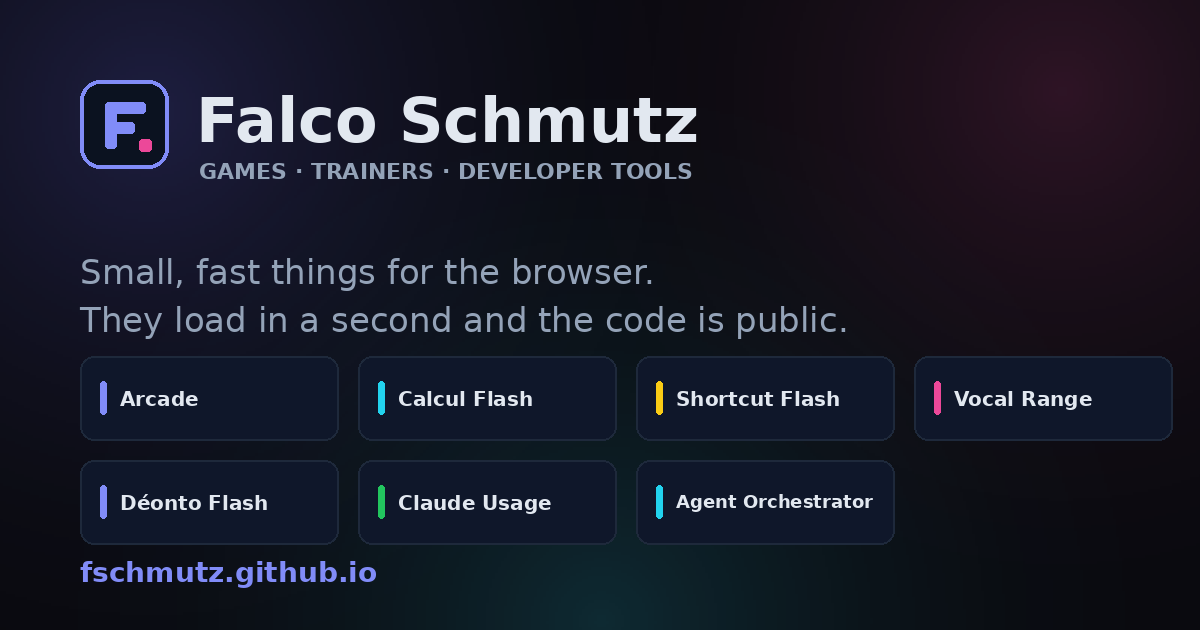
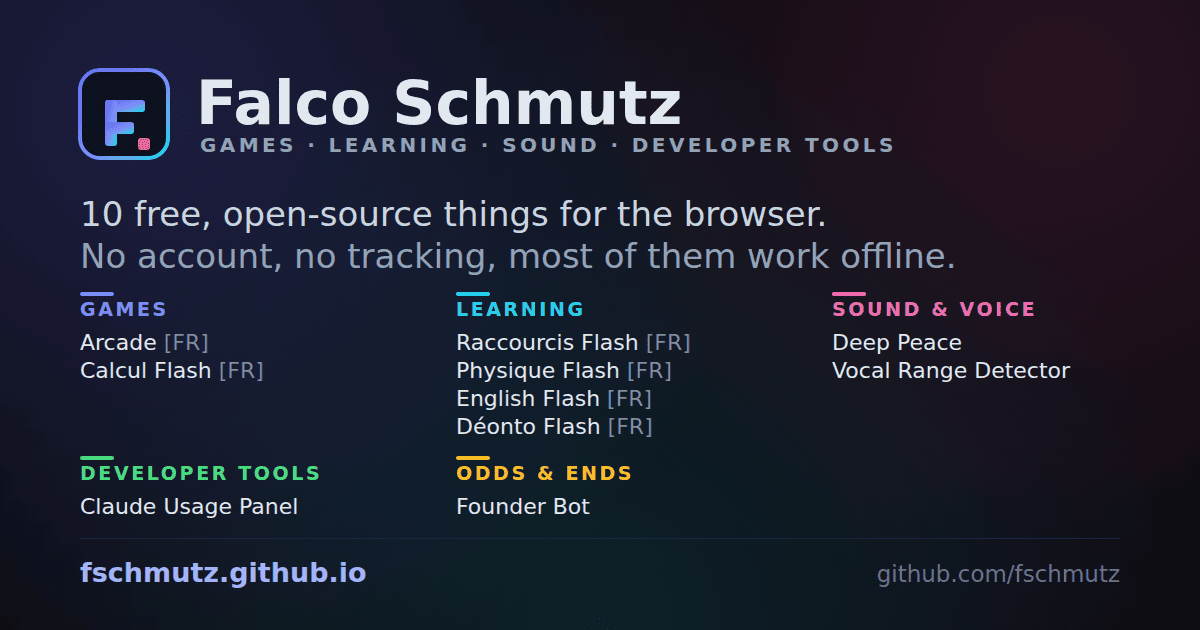
Draw the social card from projects.json instead of by hand
The card listed seven projects in a Python literal that nobody would remember
to edit. It is now generated: tools/make-og.py writes assets/og.svg from the
same groups the page uses, then rasterises it once to assets/og.png, which is
what the meta tags point at because no scraper renders SVG.

Both files are committed, so working on the site needs none of the tools the
raster step wants. The second row of groups waits for the tallest group in the
first, and the script refuses to draw rather than overlap itself when a group
outgrows the space.

diff --git a/tools/make-og.py b/tools/make-og.py
@@ -1,116 +1,207 @@
 #!/usr/bin/env python3
-"""Redraw assets/og.png, the 1200x630 social card.
+"""Redraw the 1200x630 social card from projects.json.
 
-Build-time only: the site itself ships the finished PNG and needs no tooling.
+The card is drawn as SVG — assets/og.svg, committed and diffable — and then
+rasterised once to assets/og.png, which is what the meta tags point at because
+no scraper renders SVG.
 
-    pip install Pillow && python3 tools/make-og.py
+    python3 tools/make-og.py             # redraw both
+    python3 tools/make-og.py --svg-only  # skip the raster step
+
+Rasterising needs one of rsvg-convert, inkscape or Chrome/Chromium on PATH.
+Only the person regenerating the card needs it: both files are committed, and
+the site itself has no build step.
 """
 
 from __future__ import annotations
 
-import math
+import argparse
+import json
+import shutil
+import subprocess
+import tempfile
+from html import escape
 from pathlib import Path
 
-from PIL import Image, ImageDraw, ImageFont
+ROOT = Path(__file__).resolve().parent.parent
+DATA = ROOT / "projects.json"
+SVG = ROOT / "assets" / "og.svg"
+PNG = ROOT / "assets" / "og.png"
 
 W, H = 1200, 630
-BG = (10, 10, 15)
-CARD = (15, 23, 42)
-BORDER = (30, 41, 59)
-INK = (226, 232, 240)
-MUTED = (148, 163, 184)
-INDIGO = (99, 102, 241)
-INDIGO_LIGHT = (129, 140, 248)
-CYAN = (34, 211, 238)
-PINK = (236, 72, 153)
-
-ROOT = Path(__file__).resolve().parent.parent
-FONTS = Path("/usr/share/fonts/truetype")
+COLUMNS = 3
+ROWS = 2
+COLUMN_X = (80, 456, 832)
+TOP_Y = 316          # baseline of the first group heading
+FIRST_ITEM = 34      # heading baseline to first item baseline
+ITEM_STEP = 28
+ROW_GAP = 46
+FLOOR = H - 92       # the divider; nothing may be drawn below it
+ACCENTS = ("#818cf8", "#22d3ee", "#f472b6", "#4ade80", "#fbbf24", "#fb923c")
 
 
-def font(name: str, size: int) -> ImageFont.FreeTypeFont:
-    for candidate in FONTS.rglob(name):
-        return ImageFont.truetype(str(candidate), size)
-    return ImageFont.load_default(size)
+def row_tops(groups: list[dict]) -> list[int]:
+    """Where each row of groups starts. The second row waits for the tallest
+    group in the first, so a group can grow without colliding with one below."""
+    tops = [TOP_Y]
+    for row in range(1, ROWS):
+        above = groups[(row - 1) * COLUMNS : row * COLUMNS]
+        tallest = max((len(group["items"]) for group in above), default=0)
+        tops.append(tops[-1] + FIRST_ITEM + max(tallest - 1, 0) * ITEM_STEP + ROW_GAP)
+    return tops
 
 
-def glow(image: Image.Image, cx: int, cy: int, radius: int, rgb: tuple[int, int, int], peak: float) -> None:
-    """Radial gradient, same three accent glows as the page background."""
-    layer = Image.new("RGBA", image.size, (0, 0, 0, 0))
-    pixels = layer.load()
-    step = 3
-    for y in range(max(0, cy - radius), min(image.height, cy + radius), step):
-        for x in range(max(0, cx - radius), min(image.width, cx + radius), step):
-            d = math.hypot(x - cx, y - cy)
-            if d >= radius:
-                continue
-            alpha = int(255 * peak * (1 - d / radius) ** 2)
-            if alpha <= 0:
-                continue
-            for dy in range(step):
-                for dx in range(step):
-                    if y + dy < image.height and x + dx < image.width:
-                        pixels[x + dx, y + dy] = (*rgb, alpha)
-    image.alpha_composite(layer)
-
-
-def main() -> None:
-    image = Image.new("RGBA", (W, H), (*BG, 255))
-    glow(image, 150, 110, 620, INDIGO, 0.22)
-    glow(image, 1060, 90, 560, PINK, 0.16)
-    glow(image, 600, 620, 620, CYAN, 0.16)
-
-    draw = ImageDraw.Draw(image)
-
-    # Monogram tile, same shapes as assets/favicon.svg.
-    draw.rounded_rectangle((80, 80, 168, 168), radius=20, fill=(11, 18, 32), outline=INDIGO_LIGHT, width=4)
-    draw.rounded_rectangle((105, 102, 145, 113), radius=3, fill=INDIGO_LIGHT)
-    draw.rounded_rectangle((105, 102, 116, 148), radius=3, fill=INDIGO_LIGHT)
-    draw.rounded_rectangle((105, 122, 134, 133), radius=3, fill=INDIGO_LIGHT)
-    draw.rounded_rectangle((139, 139, 151, 151), radius=3, fill=PINK)
-
-    draw.text((196, 84), "Falco Schmutz", font=font("DejaVuSans-Bold.ttf", 62), fill=INK)
-    draw.text((199, 158), "GAMES · TRAINERS · DEVELOPER TOOLS", font=font("DejaVuSans-Bold.ttf", 22), fill=MUTED)
-
-    draw.text(
-        (80, 252),
-        "Small, fast things for the browser.\nThey load in a second and the code is public.",
-        font=font("DejaVuSans.ttf", 34),
-        fill=MUTED,
-        spacing=16,
+def draw(data: dict) -> str:
+    groups = data["groups"]
+    if len(groups) > COLUMNS * ROWS:
+        raise SystemExit(f"the card has room for {COLUMNS * ROWS} groups, projects.json has {len(groups)}")
+    tops = row_tops(groups)
+    lowest = max(
+        tops[index // COLUMNS] + FIRST_ITEM + (len(group["items"]) - 1) * ITEM_STEP
+        for index, group in enumerate(groups)
     )
-
-    # Seven cards, one per curated project, laid out 4 + 3 like the grid.
-    labels = [
-        ("Arcade", INDIGO_LIGHT),
-        ("Calcul Flash", CYAN),
-        ("Shortcut Flash", (250, 204, 21)),
-        ("Vocal Range", PINK),
-        ("Déonto Flash", INDIGO_LIGHT),
-        ("Claude Usage", (34, 197, 94)),
-        ("Agent Orchestrator", CYAN),
-    ]
-    card_w, card_h, gap = 258, 84, 20
-    text_room = card_w - 56
-    for index, (label, accent) in enumerate(labels):
-        row, column = divmod(index, 4)
-        x = 80 + column * (card_w + gap)
-        y = 356 + row * (card_h + gap)
-        draw.rounded_rectangle((x, y, x + card_w, y + card_h), radius=14, fill=CARD, outline=BORDER, width=2)
-        draw.rounded_rectangle((x + 20, y + 25, x + 26, y + 58), radius=3, fill=accent)
-        label_font = next(
-            f for size in (20, 19, 18, 17, 16, 15)
-            for f in [font("DejaVuSans-Bold.ttf", size)]
-            if draw.textlength(label, font=f) <= text_room or size == 15
+    if lowest > FLOOR - 10:
+        raise SystemExit(
+            f"the groups reach y={lowest} but the card's floor is {FLOOR}. "
+            "Move a project to a shorter group, or give the first row fewer items."
         )
-        draw.text((x + 40, y + 31), label, font=label_font, fill=INK)
 
-    draw.text((80, H - 74), "fschmutz.github.io", font=font("DejaVuSans-Bold.ttf", 28), fill=INDIGO_LIGHT)
+    count = sum(len(group["items"]) for group in groups)
+    parts: list[str] = [
+        f'<svg xmlns="http://www.w3.org/2000/svg" width="{W}" height="{H}" viewBox="0 0 {W} {H}"'
+        ' font-family="DejaVu Sans, Verdana, Helvetica, Arial, sans-serif">',
+        "  <defs>",
+        '    <linearGradient id="mark" x1="0" y1="0" x2="1" y2="1">',
+        '      <stop offset="0" stop-color="#6366f1"/><stop offset="0.55" stop-color="#818cf8"/>'
+        '<stop offset="1" stop-color="#22d3ee"/>',
+        "    </linearGradient>",
+        '    <radialGradient id="glow-indigo"><stop offset="0" stop-color="#6366f1" stop-opacity="0.22"/>'
+        '<stop offset="1" stop-color="#6366f1" stop-opacity="0"/></radialGradient>',
+        '    <radialGradient id="glow-pink"><stop offset="0" stop-color="#ec4899" stop-opacity="0.14"/>'
+        '<stop offset="1" stop-color="#ec4899" stop-opacity="0"/></radialGradient>',
+        '    <radialGradient id="glow-cyan"><stop offset="0" stop-color="#22d3ee" stop-opacity="0.12"/>'
+        '<stop offset="1" stop-color="#22d3ee" stop-opacity="0"/></radialGradient>',
+        "  </defs>",
+        f'  <rect width="{W}" height="{H}" fill="#0a0a0f"/>',
+        '  <circle cx="150" cy="110" r="620" fill="url(#glow-indigo)"/>',
+        '  <circle cx="1060" cy="90" r="560" fill="url(#glow-pink)"/>',
+        f'  <circle cx="600" cy="{H - 10}" r="620" fill="url(#glow-cyan)"/>',
+        # Monogram, the same shapes as assets/favicon.svg.
+        '  <rect x="80" y="70" width="88" height="88" rx="20" fill="#0b1220" stroke="url(#mark)" stroke-width="4"/>',
+        '  <g fill="url(#mark)">',
+        '    <rect x="105" y="100" width="40" height="12" rx="3"/>',
+        '    <rect x="105" y="100" width="12" height="46" rx="3"/>',
+        '    <rect x="105" y="122" width="29" height="12" rx="3"/>',
+        "  </g>",
+        '  <rect x="138" y="138" width="12" height="12" rx="3" fill="#ec4899"/>',
+        '  <text x="196" y="124" font-size="60" font-weight="700" fill="#e2e8f0">Falco Schmutz</text>',
+        '  <text x="200" y="152" font-size="20" font-weight="700" letter-spacing="3.4" fill="#94a3b8">'
+        "GAMES · LEARNING · SOUND · DEVELOPER TOOLS</text>",
+        f'  <text x="80" y="226" font-size="34" fill="#cbd5e1">{count} free, open-source things for the browser.</text>',
+        '  <text x="80" y="268" font-size="34" fill="#94a3b8">No account, no tracking, most of them work offline.</text>',
+    ]
 
-    out = ROOT / "assets" / "og.png"
-    image.convert("RGB").save(out, optimize=True)
-    print(f"wrote {out} ({out.stat().st_size} bytes)")
+    for index, group in enumerate(groups):
+        x = COLUMN_X[index % COLUMNS]
+        y = tops[index // COLUMNS]
+        accent = ACCENTS[index % len(ACCENTS)]
+        parts.append(f'  <rect x="{x}" y="{y - 24}" width="34" height="4" rx="2" fill="{accent}"/>')
+        parts.append(
+            f'  <text x="{x}" y="{y}" font-size="19" font-weight="700" letter-spacing="2.6" '
+            f'fill="{accent}">{escape(group["name"].upper())}</text>'
+        )
+        for row, item in enumerate(group["items"]):
+            label = escape(item["name"])
+            if item.get("lang"):
+                label += f' <tspan fill="#7c8aa0">[{item["lang"].upper()}]</tspan>'
+            parts.append(
+                f'  <text x="{x}" y="{y + FIRST_ITEM + row * ITEM_STEP}" font-size="22" '
+                f'fill="#e2e8f0">{label}</text>'
+            )
+
+    parts += [
+        f'  <rect x="80" y="{FLOOR}" width="{W - 160}" height="1" fill="#1e293b"/>',
+        f'  <text x="80" y="{H - 48}" font-size="27" font-weight="700" fill="#a5b4fc">fschmutz.github.io</text>',
+        f'  <text x="{W - 80}" y="{H - 48}" font-size="23" text-anchor="end" fill="#64748b">'
+        "github.com/fschmutz</text>",
+        "</svg>",
+    ]
+    return "\n".join(parts) + "\n"
+
+
+def rasterise(svg: Path, png: Path) -> None:
+    if (tool := shutil.which("rsvg-convert")):
+        subprocess.run([tool, "-w", str(W), "-h", str(H), "-o", str(png), str(svg)], check=True)
+        return
+    if (tool := shutil.which("inkscape")):
+        subprocess.run([tool, str(svg), "-w", str(W), "-h", str(H), "-o", str(png)], check=True)
+        return
+
+    chrome = next((shutil.which(name) for name in ("google-chrome", "chromium", "chromium-browser") if shutil.which(name)), None)
+    if not chrome:
+        raise SystemExit("install rsvg-convert, inkscape or Chrome to rasterise, or pass --svg-only")
+
+    # Chrome screenshots a document, so wrap the SVG in a page with no margin.
+    # ignore_cleanup_errors: a headless Chrome that outstayed its welcome is
+    # still writing into its profile while the directory goes away.
+    with tempfile.TemporaryDirectory(ignore_cleanup_errors=True) as tmp:
+        page = Path(tmp) / "card.html"
+        page.write_text(
+            "<!doctype html><meta charset=utf-8>"
+            "<style>html,body{margin:0;padding:0;background:#0a0a0f}svg{display:block}</style>"
+            + svg.read_text(encoding="utf-8"),
+            encoding="utf-8",
+        )
+        command = [
+            chrome, "--headless", "--no-sandbox", "--disable-gpu", "--disable-dev-shm-usage",
+            "--hide-scrollbars", "--force-device-scale-factor=1", f"--window-size={W},{H}",
+            f"--screenshot={png}", f"--user-data-dir={tmp}/profile", page.as_uri(),
+        ]
+        before = png.stat().st_mtime if png.exists() else 0
+        process = subprocess.Popen(command, stdout=subprocess.DEVNULL, stderr=subprocess.DEVNULL)
+        try:
+            # Chrome writes the screenshot and then sometimes refuses to exit
+            # on a machine with no D-Bus, so judge it by the file, not the
+            # exit code, and do not leave the process behind either way.
+            process.wait(timeout=90)
+        except subprocess.TimeoutExpired:
+            process.kill()
+            process.wait()
+        if not png.exists() or png.stat().st_mtime == before:
+            raise SystemExit("Chrome did not write the screenshot")
+
+    shrink(png)
+
+
+def shrink(png: Path) -> None:
+    """Chrome writes a 24-bit PNG; the card is three soft gradients and some
+    text, so a dithered palette costs nothing visible and saves ~90%."""
+    quiet = {"check": False, "stdout": subprocess.DEVNULL, "stderr": subprocess.DEVNULL}
+    if shutil.which("pngquant"):
+        subprocess.run(
+            ["pngquant", "64", "--force", "--skip-if-larger", "--quality", "50-92",
+             "--speed", "1", "--output", str(png), str(png)],
+            **quiet,
+        )
+    for lossless in (["oxipng", "-o", "4", "--strip", "safe", str(png)], ["optipng", "-quiet", "-o5", str(png)]):
+        if shutil.which(lossless[0]):
+            subprocess.run(lossless, **quiet)
+            break
+
+
+def main() -> int:
+    parser = argparse.ArgumentParser(description=__doc__, formatter_class=argparse.RawDescriptionHelpFormatter)
+    parser.add_argument("--svg-only", action="store_true")
+    args = parser.parse_args()
+
+    SVG.write_text(draw(json.loads(DATA.read_text(encoding="utf-8"))), encoding="utf-8")
+    print(f"wrote {SVG.relative_to(ROOT)} ({SVG.stat().st_size} bytes)")
+    if args.svg_only:
+        return 0
+    rasterise(SVG, PNG)
+    print(f"wrote {PNG.relative_to(ROOT)} ({PNG.stat().st_size} bytes)")
+    return 0
 
 
 if __name__ == "__main__":
-    main()
+    raise SystemExit(main())
